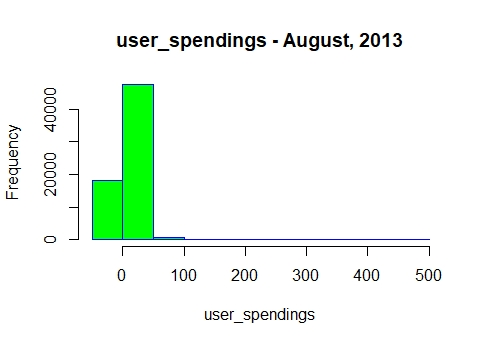
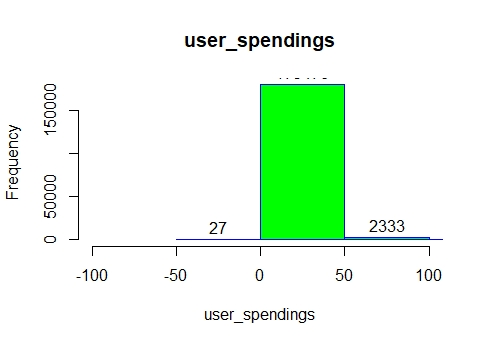
update

diff --git a/_posts/2019-11-29-testpost.md b/_posts/2019-11-29-testpost.md
@@ -92,7 +92,11 @@ the negative values.
 
 <img src="{{site.url}}{{ site.baseurl }}/images/user_spendings_pre.jpeg" alt="this is a placeholder image">  
 
+<img src="{{site.url}}{{ site.baseurl }}/images/user_spendings_pre.jpeg" alt="this is a placeholder image">  
+
 <script src="https://gist.github.com/mksamelson/ccca5078c2a4f455bfda1ad9e721f681.js"></script>
+
+<img src="{{site.url}}{{ site.baseurl }}/images/user_spendings_post.jpeg" alt="this is a placeholder image">  
 
 ## Model
 
